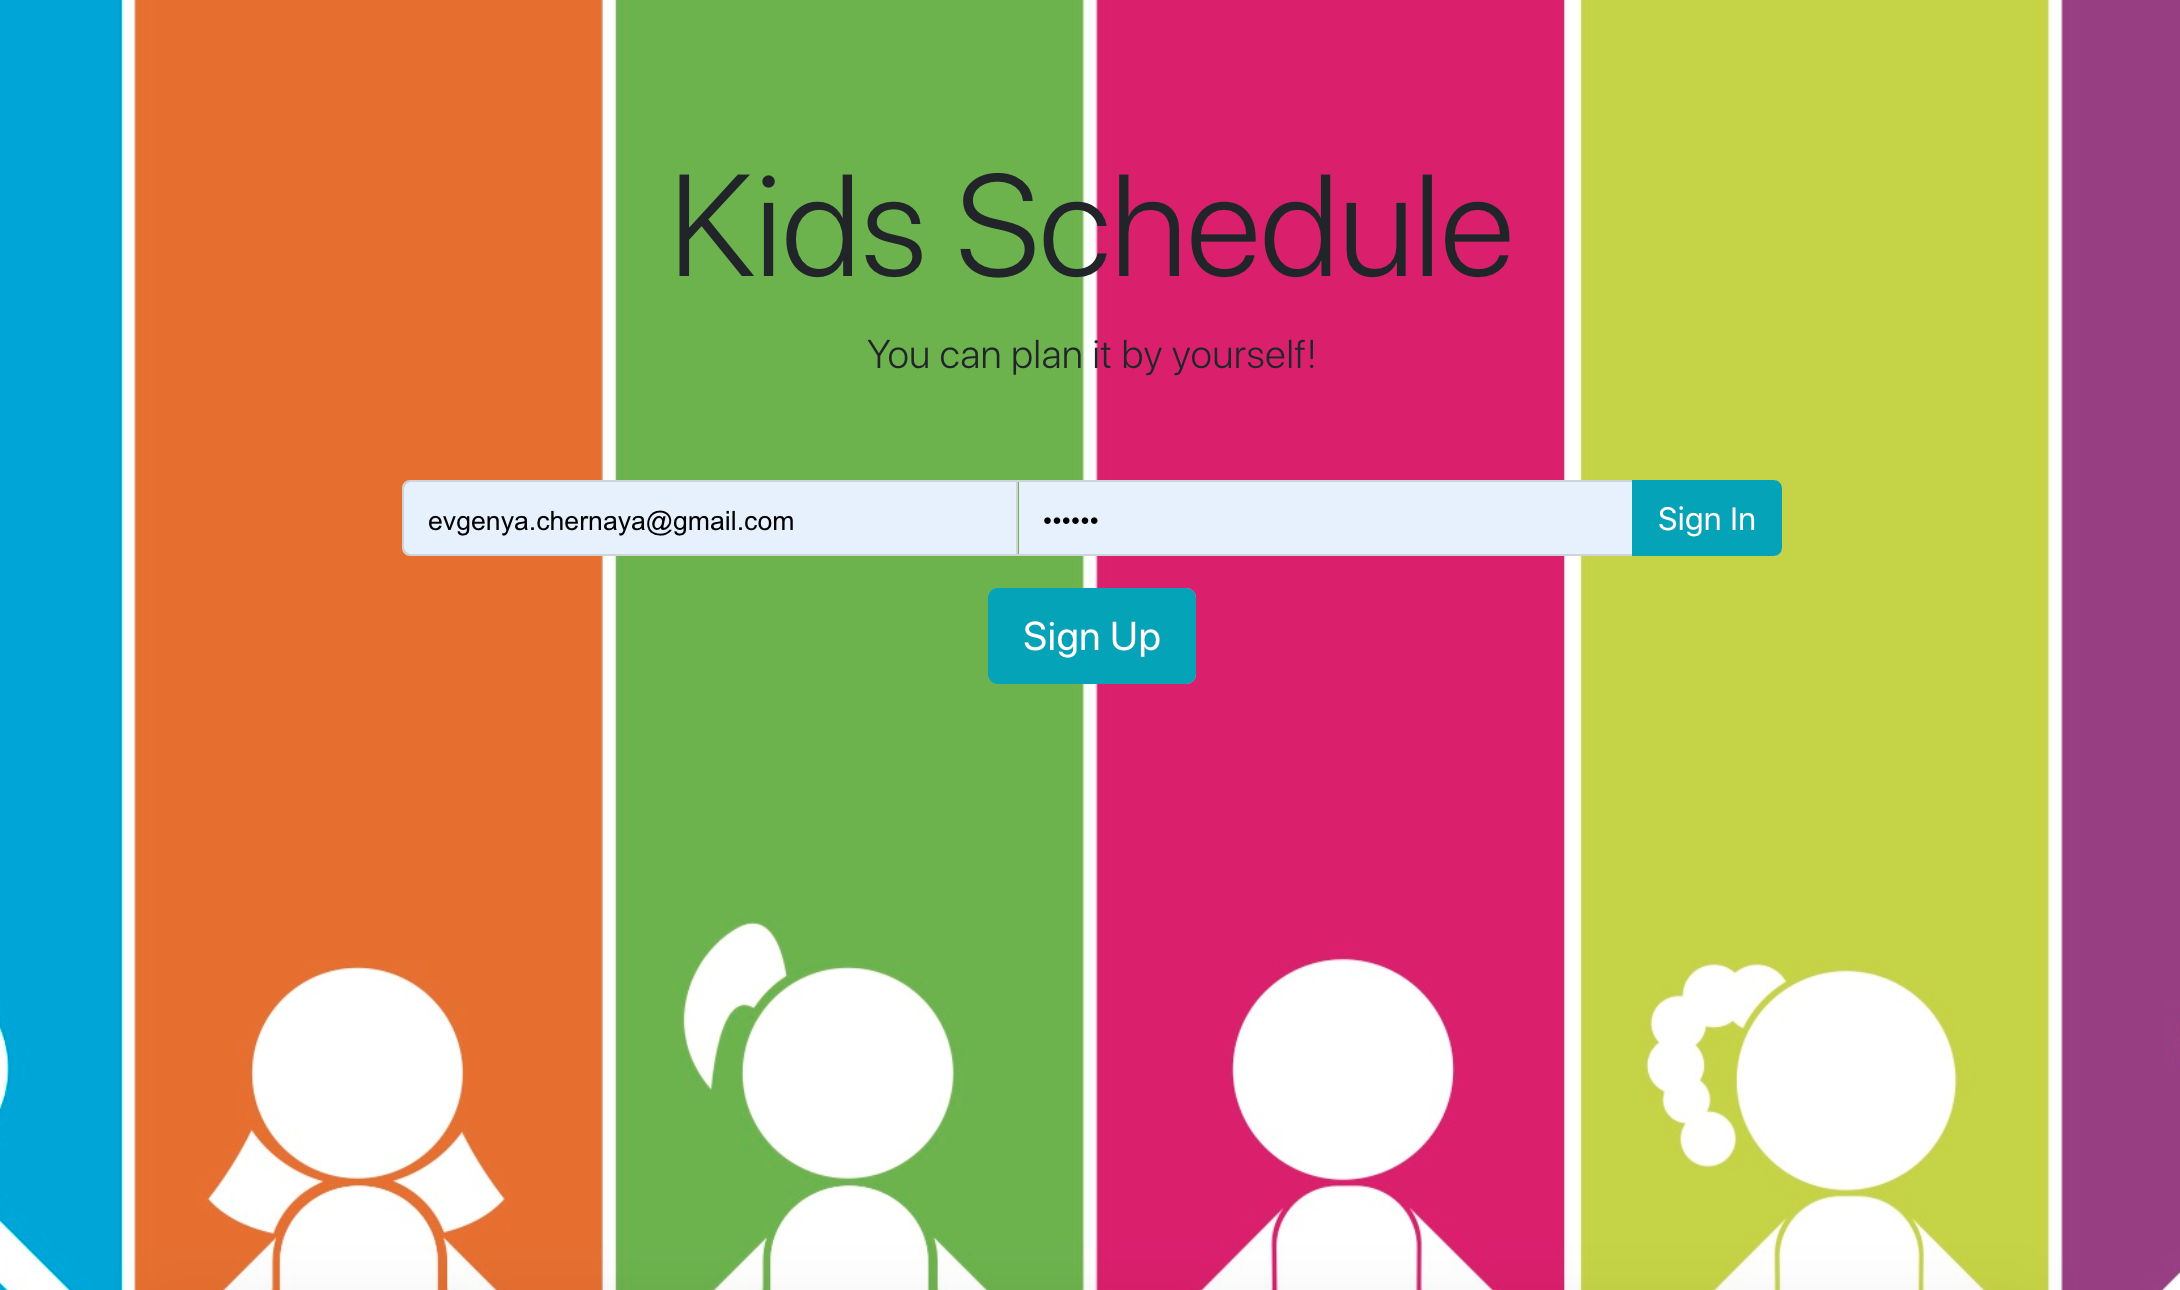
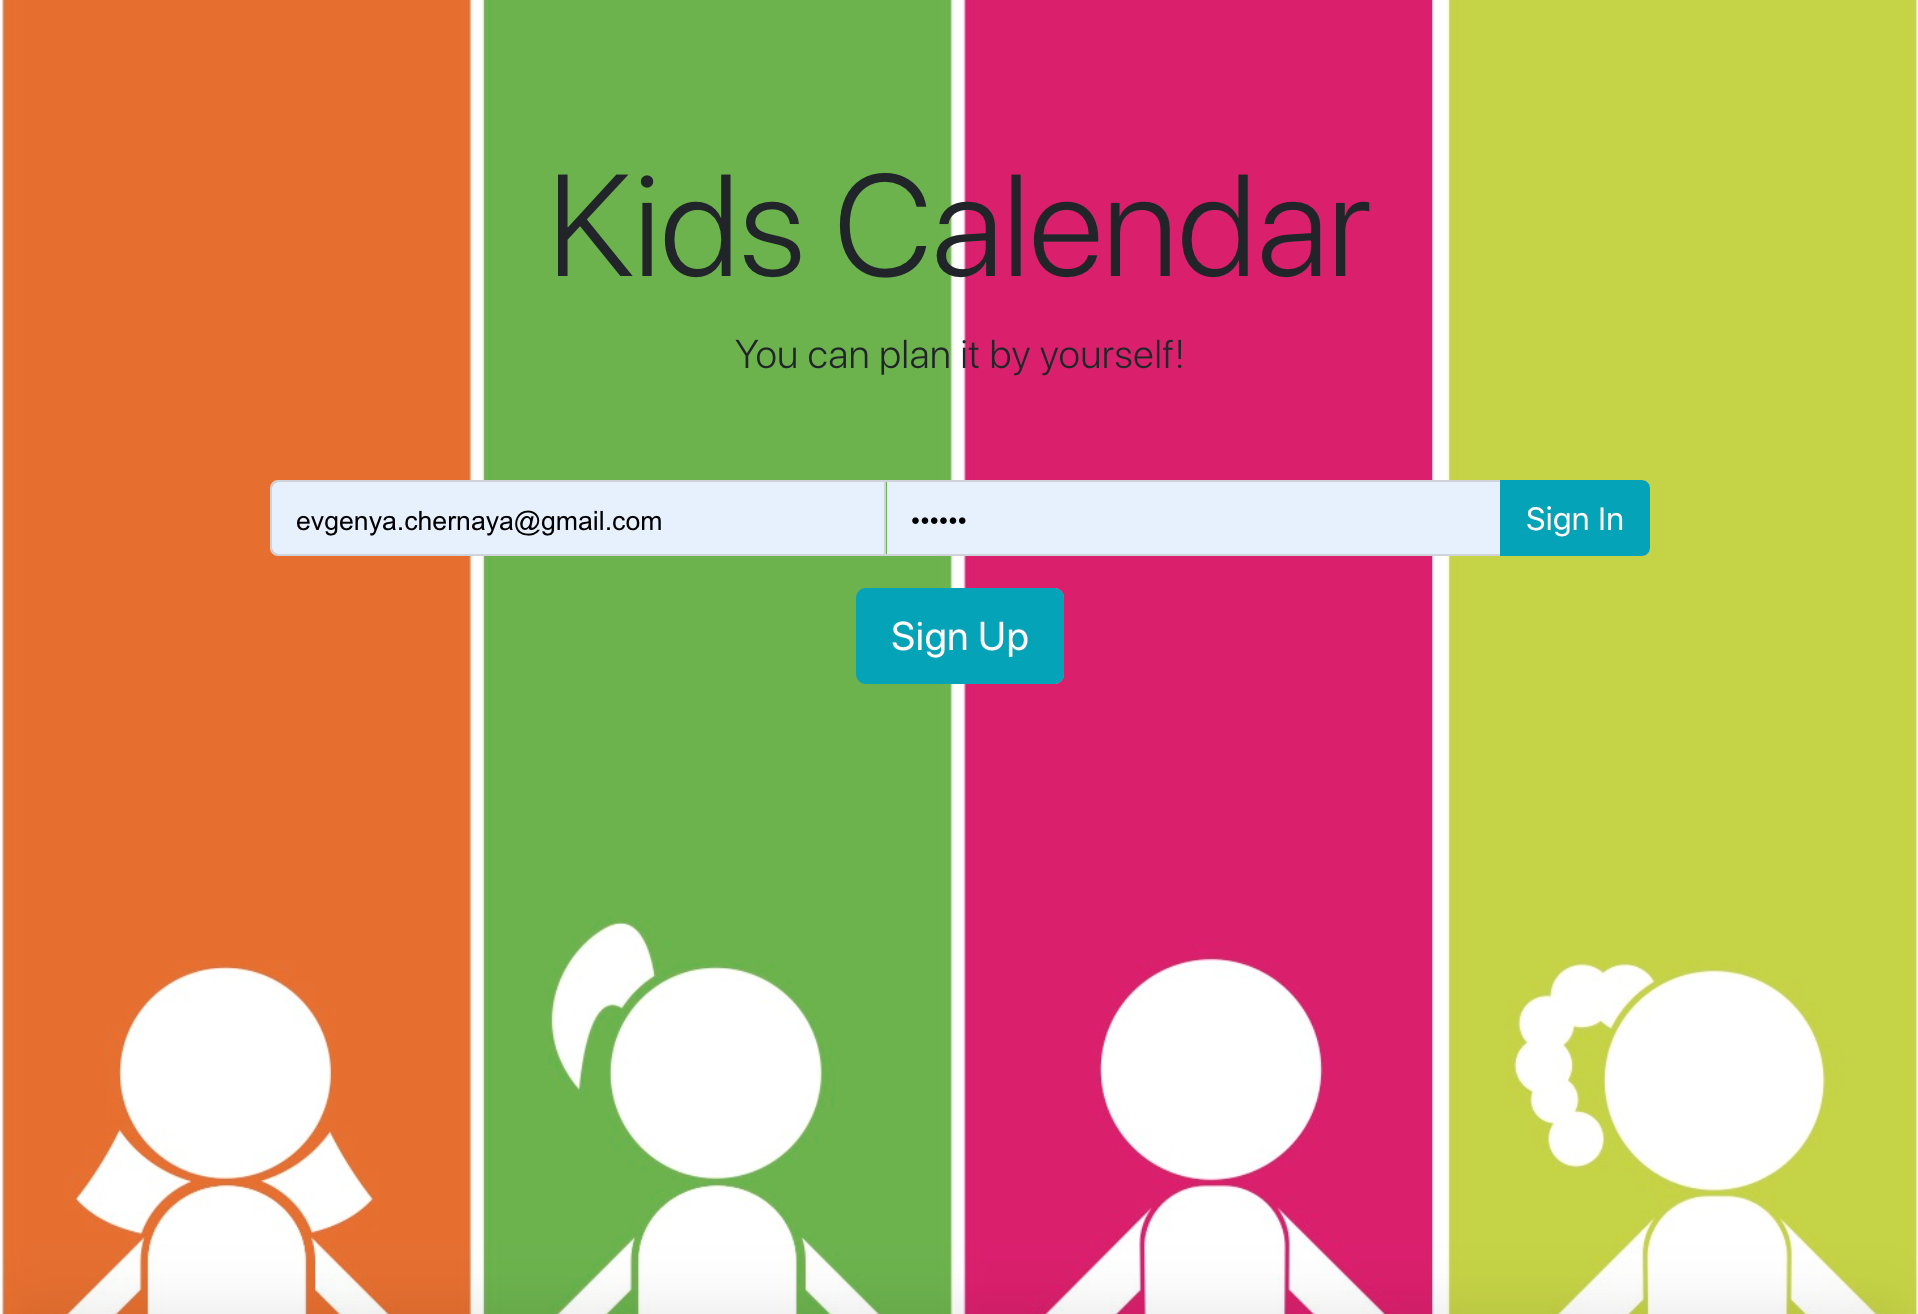
polish project

diff --git a/src/components/UserControl.js b/src/components/UserControl.js
@@ -6,7 +6,7 @@ import TaskDetail from './TaskDetails';
 import StickersPage from './StickersPage';
 import SignIn from './SignIn';
 import ChangeTheme from './ChangeTheme';
-import { withFirestore, useFirestoreConnect, isLoaded, isEmpty} from 'react-redux-firebase';
+import { withFirestore, useFirestoreConnect, isLoaded } from 'react-redux-firebase';
 import { useSelector } from 'react-redux';
 import firebase from "firebase/app";
 

diff --git a/src/components/SignIn.js b/src/components/SignIn.js
@@ -18,7 +18,7 @@ function SignIn(){
   return (
     <React.Fragment>
       <div className="text-center start-pages">
-        <h1 className="mt-10 display-3">Kids Schedule</h1>
+        <h1 className="mt-10 display-3">Kids Calendar</h1>
         <p className="lead mb-5">You can plan it by yourself!</p>
         <div className="col-md-6 col-8 mx-auto">         
           <form onSubmit={doSignIn} className="input-group">
